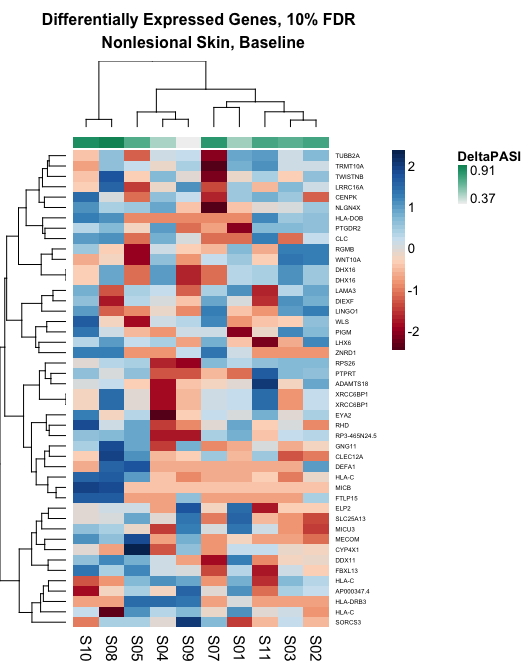
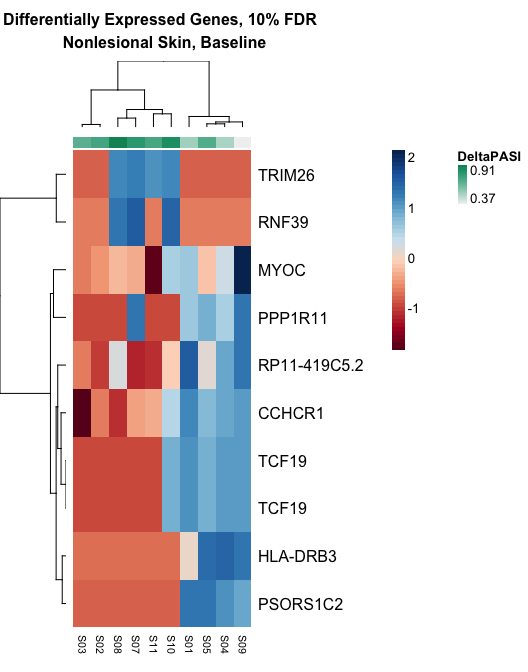
des fix

diff --git a/Scripts/Response_Script.md b/Scripts/Response_Script.md
@@ -214,11 +214,9 @@ Differences Across Subjects
 ``` r
 # Build design matrix
 des <- model.matrix(~ 0 + Tissue:Time + Tissue:Time:DeltaPASI, data = pheno)
-colnames(des) <- c(paste(rep(unique(pheno$Time), times = 3), 
-                         rep(unique(pheno$Tissue), each = 3), sep = '.'),
-                   paste(rep(unique(pheno$Time), times = 3),
-                         rep(unique(pheno$Tissue), each = 3),
-                         'Response', sep = '.'))
+colnames(des)[10:18] <- c(paste(rep(unique(pheno$Tissue), times = 3),
+                                rep(unique(pheno$Time), each = 3),
+                                'Response', sep = '.'))
 ```
 
 This design matrix has 18 columns. The first 9 represent every tissue-time combination, effectively providing intercepts for each of the 9 sub-models of which this model is composed. The latter 9 are three-way interactions between tissue type, time point, and delta PASI, which we use to measure drug response. The coefficients for these variables will represent the slopes of each linear sub-model. We rename these variables for more convenient reference later on.
@@ -422,15 +420,15 @@ df
 
 | Tissue      | Time    |  DEgenes|
 |:------------|:--------|--------:|
-| Blood       | wk00    |        8|
-| Lesional    | wk00    |       25|
-| Nonlesional | wk00    |       46|
-| Blood       | wk01    |        2|
-| Lesional    | wk01    |       15|
-| Nonlesional | wk01    |        9|
-| Blood       | wk12    |       12|
-| Lesional    | wk12    |      118|
-| Nonlesional | wk12    |        8|
+| Blood       | wk00    |       10|
+| Lesional    | wk00    |        6|
+| Nonlesional | wk00    |       10|
+| Blood       | wk01    |       27|
+| Lesional    | wk01    |       25|
+| Nonlesional | wk01    |      103|
+| Blood       | wk12    |       42|
+| Lesional    | wk12    |       27|
+| Nonlesional | wk12    |       13|
 | Blood       | Delta01 |        9|
 | Lesional    | Delta01 |        1|
 | Nonlesional | Delta01 |       18|
@@ -468,18 +466,18 @@ top <- fread('./Results/Response/Nonlesional.wk00.Response.txt')
 head(top, 10)
 ```
 
-| EnsemblID       | GeneSymbol   |     AvgExpr|      logFC|  p.value|    q.value|
-|:----------------|:-------------|-----------:|----------:|--------:|----------:|
-| ENSG00000123219 | CENPK        |   2.9594993|  -3.295766|  0.0e+00|  0.0000451|
-| ENSG00000261349 | RP3-465N24.5 |  -1.6165846|  11.910650|  0.0e+00|  0.0001232|
-| ENSG00000064655 | EYA2         |  -0.0150056|  13.190668|  1.0e-07|  0.0004760|
-| ENSG00000196090 | PTPRT        |   0.2866142|  17.513648|  2.0e-07|  0.0009352|
-| ENSG00000234218 | MICB         |  -3.9957524|  20.579315|  3.0e-07|  0.0013489|
-| ENSG00000224859 | ZNRD1        |  -2.8749890|  23.564307|  1.0e-06|  0.0032133|
-| ENSG00000079691 | LRRC16A      |   4.7874031|  -1.976279|  1.7e-06|  0.0048054|
-| ENSG00000197728 | RPS26        |   6.6909155|   3.934162|  2.3e-06|  0.0056265|
-| ENSG00000155970 | MICU3        |   3.0533648|  -2.805703|  2.8e-06|  0.0059221|
-| ENSG00000117597 | DIEXF        |   4.8641665|  -1.191426|  3.8e-06|  0.0068090|
+| EnsemblID       | GeneSymbol   |     AvgExpr|       logFC|   p.value|    q.value|
+|:----------------|:-------------|-----------:|-----------:|---------:|----------:|
+| ENSG00000206455 | TCF19        |  -1.7684004|  -17.607976|  2.00e-07|  0.0020188|
+| ENSG00000234674 | TCF19        |  -1.7684004|  -17.607976|  2.00e-07|  0.0020188|
+| ENSG00000230230 | TRIM26       |  -1.8997054|   27.382704|  1.00e-06|  0.0066552|
+| ENSG00000226232 | RP11-419C5.2 |   1.8063606|   -3.129186|  1.70e-06|  0.0068403|
+| ENSG00000206501 | PPP1R11      |  -2.0135774|  -17.202879|  1.80e-06|  0.0068403|
+| ENSG00000034971 | MYOC         |  -0.4890336|   -5.509046|  4.40e-06|  0.0142520|
+| ENSG00000196101 | HLA-DRB3     |  -2.2601731|  -19.195594|  8.90e-06|  0.0245835|
+| ENSG00000227171 | RNF39        |  -3.5978248|   22.721071|  1.06e-05|  0.0254985|
+| ENSG00000206457 | CCHCR1       |  -1.0663214|  -13.502340|  1.39e-05|  0.0297938|
+| ENSG00000206459 | PSORS1C2     |  -3.5578722|  -13.554901|  3.40e-05|  0.0655997|
 
 It will be interesting to see if pathway analysis confirms a strong TNF inhibitor signal in these data.
 
@@ -513,9 +511,7 @@ plot_volcano(top, fdr = 0.1,
              main = 'Differential Expression by Drug Response: \n Lesional Skin, Baseline')
 ```
 
-<p align='center'>
 <img src="Response_Script_files/figure-markdown_github/volc-1.png" style="display: block; margin: auto;" />
-</p>
 
 The plot is a little right-shifted, indicating more up- than down-regulation among genes in this contrast, but the difference is not particularly extreme.
 
@@ -544,8 +540,6 @@ aheatmap(deg, distfun = 'pearson', scale = 'row', col = rb,
          annCol = list(DeltaPASI = pheno$DeltaPASI[grep('Nonlesional.wk00', pheno$Sample)]))
 ```
 
-<p align='center'>
 <img src="Response_Script_files/figure-markdown_github/heatmap-1.png" style="display: block; margin: auto;" />
-</p>
 
 The sample-wise clustering in this heatmap makes some sense. Patients are seemingly stratified into strong, medium, and non-responders. The gene-wise clustering, however, is a little harder to parse out. Expression values for each gene vary considerably across libraries, with only a few instances of clear blocks emerging from the data. That could be a byproduct of the relatively low dimensionality in this case - just 46 genes observed across 10 samples. We'll continue with bigger matrices in later analyses.
